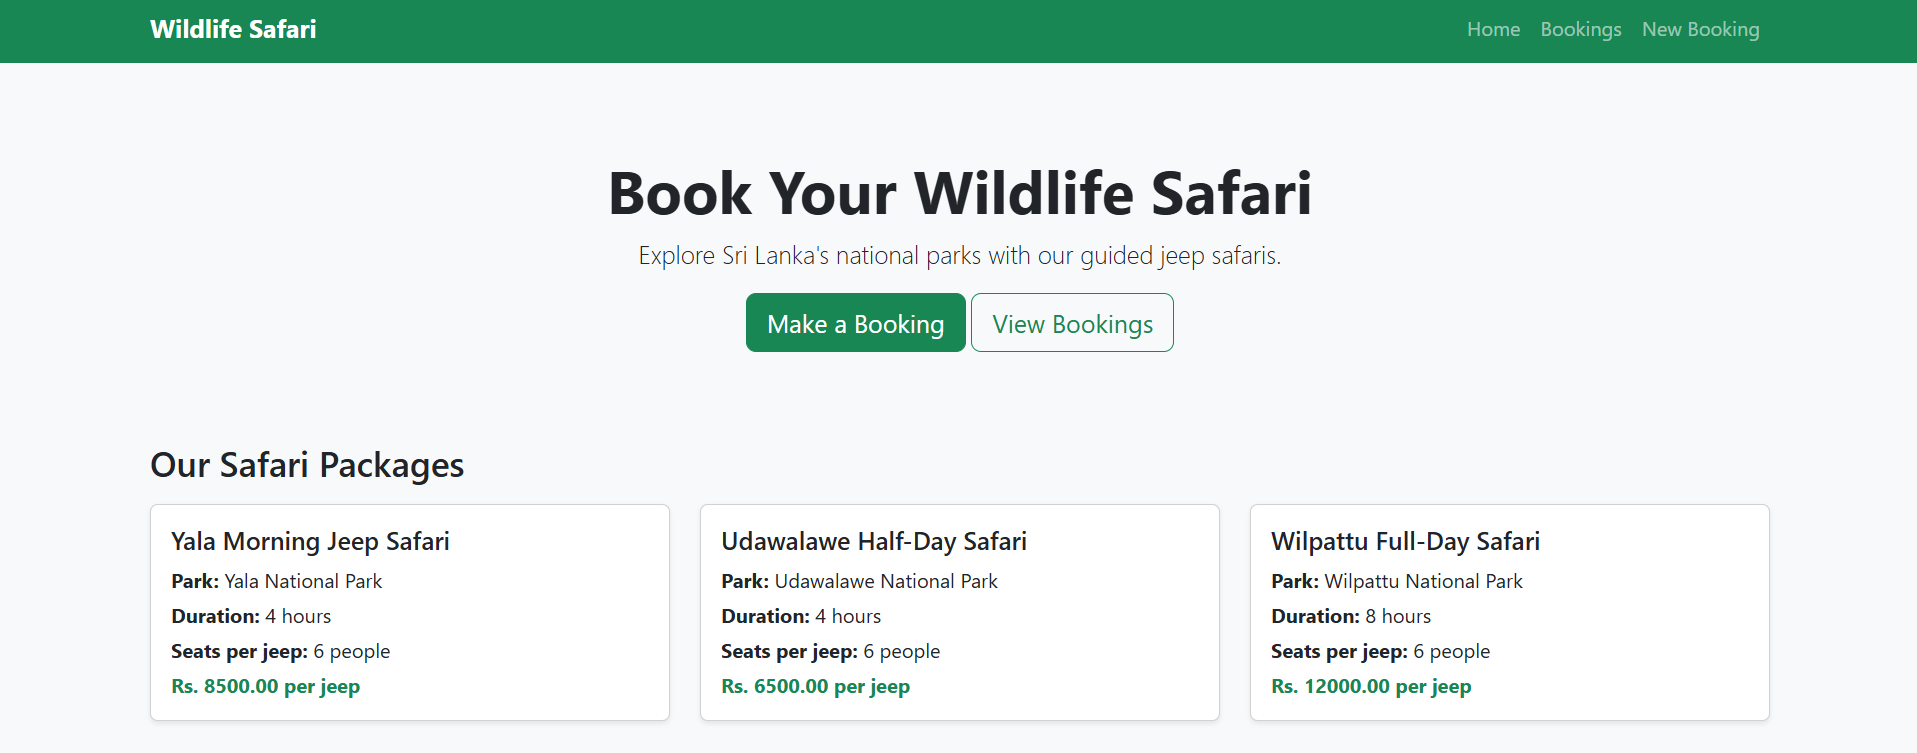
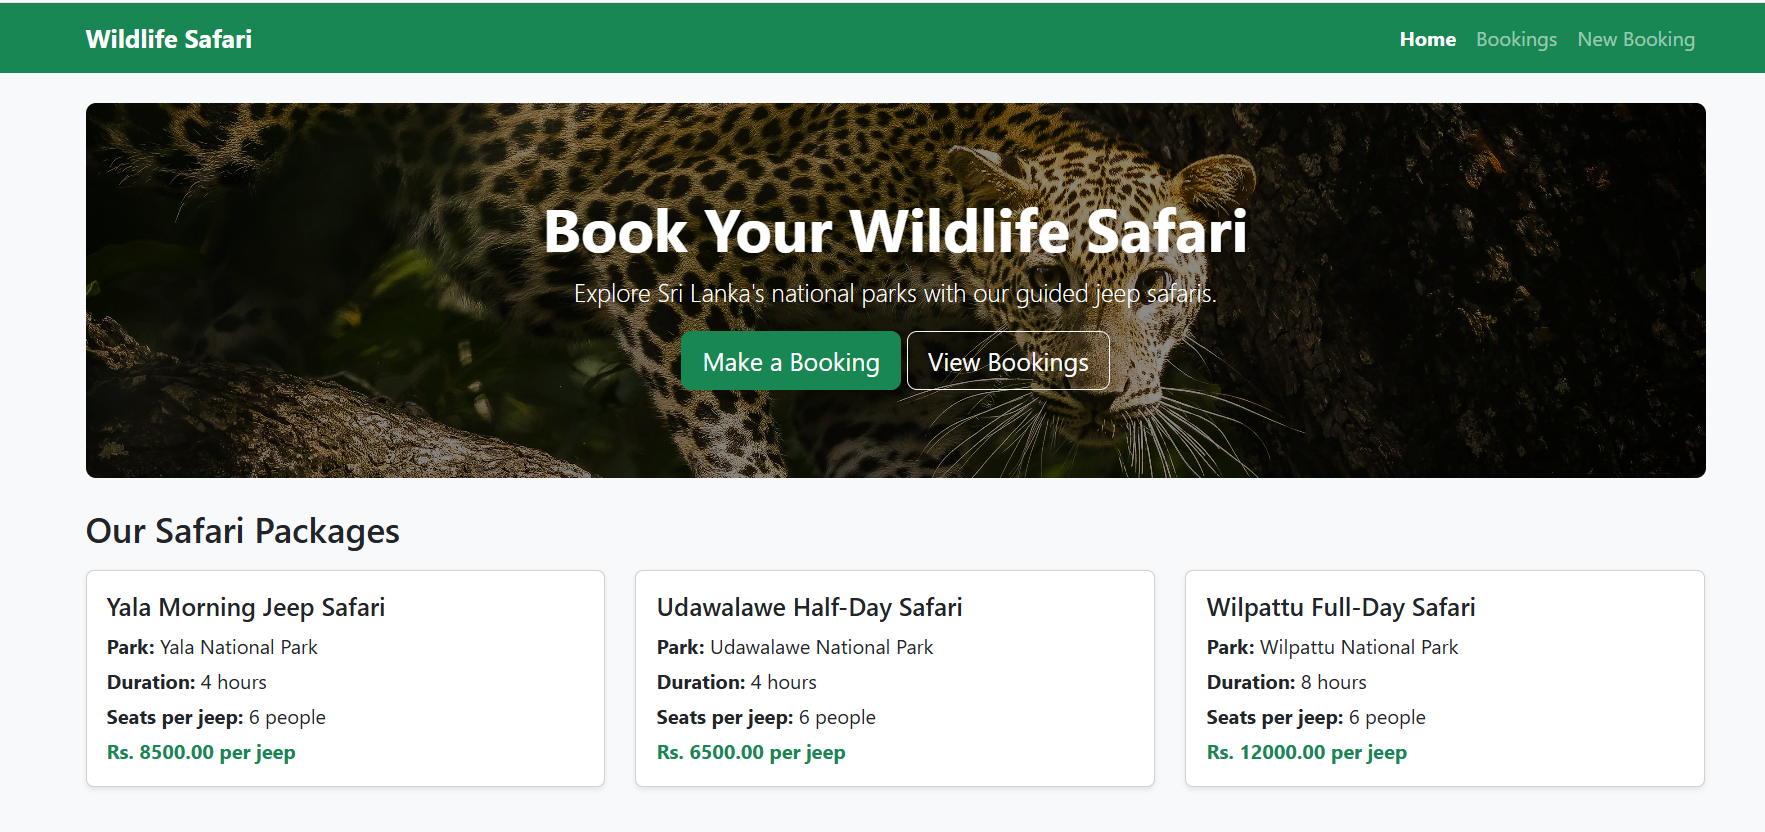
Add full README

diff --git a/README.md b/README.md
@@ -1,102 +1,147 @@
 # Online Wildlife Safari Reservation and Management System
 
 EE4307 Web Application Development Mini Project
-**Student:** [Singaneththi h n] | **Index number:** [EG/2023/5899]
+
+**Student:** [Singaneththi H N] | **Index number:** [EG/2023/5899]
 
 ## Description
 
-A web application for booking wildlife jeep safaris in Sri Lankan national parks. Staff can create, view, edit and delete bookings. Customers are stored in a MySQL database. The price is calculated **per jeep** (one jeep carries up to 6 people), so larger groups book extra jeeps automatically.
+A web application for booking wildlife jeep safaris in Sri Lankan national parks (Yala, Udawalawe and Wilpattu). Staff can create, view, edit and delete bookings, and all data is stored in a MySQL database. Safari prices are calculated **per jeep**, not per person. One jeep carries up to 6 people, so larger groups automatically book extra jeeps.
 
 ## Features
 
-- **Create** a booking with customer, package, guide, date and number of people
-- **Read**: booking list with search by customer name, filter by status, sort by date or price, and a details page
-- **Update**: edit a booking and change its status (Pending, Confirmed, Cancelled)
-- **Delete** with an "Are you sure?" confirmation popup
-- Client-side validation (browser) and server-side validation (Node.js) with clear error messages
-- Automatic price calculation: price per jeep x number of jeeps
-- Responsive design for mobile, tablet and desktop
-- Custom 404 page
+- **Create:** add a booking with customer details, safari package, guide, date and number of people
+- **Read:** booking list with search by customer name, filter by status, sort by date or price, and a details page
+- **Update:** edit a booking and change its status (Pending, Confirmed, Cancelled)
+- **Delete:** remove a booking after an "Are you sure?" confirmation popup
+- **Validation:** client-side (browser) and server-side (Node.js) checks with clear error messages
+- **Automatic pricing:** price per jeep x number of jeeps needed
+- **Responsive design** for mobile, tablet and desktop
+- Custom 404 error page
 
 ## Technologies Used
 
-- Node.js and Express
-- EJS templates
-- MySQL (XAMPP) with the `mysql2` package
-- Bootstrap 5
-- Git and GitHub
+| Part | Technology |
+|---|---|
+| Server | Node.js, Express |
+| Templates | EJS |
+| Database | MySQL (XAMPP), `mysql2` package |
+| Front end | Bootstrap 5, HTML, CSS, JavaScript |
+| Other packages | dotenv, method-override |
+| Version control | Git and GitHub |
 
 ## Setup Steps
 
-1. Install [Node.js](https://nodejs.org) (LTS) and [XAMPP](https://www.apachefriends.org).
-2. Start **Apache** and **MySQL** in the XAMPP Control Panel.
+1. Install [Node.js](https://nodejs.org) (LTS version) and [XAMPP](https://www.apachefriends.org).
+2. Open the XAMPP Control Panel and start **Apache** and **MySQL**.
 3. Clone the repository:
    ```
    git clone https://github.com/hashininethsara18-wq/Online-Wildlife-Safari-Reservation-and-Management-System.git
    cd Online-Wildlife-Safari-Reservation-and-Management-System
    ```
-4. Install packages:
+4. Install the packages:
    ```
    npm install
    ```
-5. Create the database: open `http://localhost/phpmyadmin`, click **Import**, choose `database.sql`, and click **Go**.
-6. Copy `.env.example` to a new file named `.env`. The default values work with XAMPP (user `root`, empty password).
-7. Start the app:
+5. Create the database: open `http://localhost/phpmyadmin`, click the **Import** tab, choose the file `database.sql`, and click **Go**. This creates the database `safari_db` with sample data.
+6. Copy `.env.example` and rename the copy to `.env`. The default values work with XAMPP (user `root`, empty password).
+7. Start the application:
    ```
    node app.js
    ```
 8. Open `http://localhost:3000` in your browser.
 
+If MySQL does not start in XAMPP, another MySQL service may be using port 3306. Stop it in Windows Services and try again.
+
 ## Database Design
 
-The database `safari_db` has 5 tables: `parks`, `safari_packages`, `guides`, `customers` and `bookings`.
+The database `safari_db` has 5 tables:
+
+| Table | Purpose | Key columns |
+|---|---|---|
+| `parks` | National parks | `park_id` (PK) |
+| `safari_packages` | Safari packages of each park | `package_id` (PK), `park_id` (FK), `price_per_jeep`, `max_capacity` |
+| `guides` | Safari guides | `guide_id` (PK) |
+| `customers` | Customer details | `customer_id` (PK), `email` (unique) |
+| `bookings` | Reservations (main entity) | `booking_id` (PK), `customer_id` (FK), `package_id` (FK), `guide_id` (FK) |
+
+Relationships:
 
 - One park has many safari packages.
-- One customer, one package and one guide can each have many bookings.
+- One customer can make many bookings.
+- One package can be used in many bookings.
+- One guide can be assigned to many bookings.
 
 ![ERD](docs/erd.png)
 
 ## Screenshots
 
 ### Home page
-![Home](docs/home.png)
+![Home page](docs/home.png)
 
 ### Create booking
-![Create](docs/create-form.png)
+![Create booking](docs/create-form.png)
 
 ### Booking list with search, filter and sort
-![List](docs/read-list.png)
+![Booking list](docs/read-list.png)
 
 ### Booking details
-![Details](docs/read-details.png)
+![Booking details](docs/read-details.png)
 
 ### Edit booking
-![Edit](docs/edit-form.png)
+![Edit booking](docs/edit-form.png)
 
 ### Delete confirmation
-![Delete](docs/delete-popup.png)
+![Delete confirmation](docs/delete-popup.png)
 
 ### Validation messages
-![Validation](docs/validation-client.png)
+![Validation messages](docs/validation-client.png)
+
+### Database records (phpMyAdmin)
+![Bookings table](docs/db-bookings.png)
+![Customers table](docs/db-customers.png)
 
 ### Mobile view
-![Mobile](docs/mobile-list.png)
+![Mobile home](docs/mobile-home.png)
+![Mobile list](docs/mobile-list.png)
 
 ## Project Structure
 
 ```
 safari-project/
-├── app.js              main server file
-├── config/db.js        database connection
-├── routes/bookings.js  booking routes (CRUD)
-├── views/              EJS pages and partials
-├── public/             CSS and JavaScript
-├── docs/               ERD and screenshots
-├── database.sql        database schema and sample data
-└── .env.example        example settings
+├── app.js                main server file
+├── config/
+│   └── db.js             database connection
+├── routes/
+│   └── bookings.js       booking routes (create, read, update, delete)
+├── views/
+│   ├── index.ejs         home page
+│   ├── error.ejs         404 page
+│   ├── bookings/         new, list, details and edit pages
+│   └── partials/         header, footer and error box
+├── public/
+│   ├── css/style.css     custom styles
+│   ├── js/validation.js  browser validation
+│   └── images/hero.jpg   home page photo
+├── docs/                 ERD and screenshots
+├── database.sql          database schema and sample data
+└── .env.example          example settings
 ```
+
+## Validation Rules
+
+| Field | Rule |
+|---|---|
+| Name | At least 2 characters |
+| Email | Must be a valid email address |
+| Phone | 7 to 15 characters (numbers, +, - and spaces) |
+| Safari date | Cannot be in the past |
+| Number of people | Whole number from 1 to 30 |
+| Package | Must be selected and must exist |
+| Status | Pending, Confirmed or Cancelled only |
 
 ## Notes
 
-- Database credentials are in `.env`, which is not uploaded to GitHub. Use `.env.example` as a guide.
+- Database credentials are stored in `.env`, which is not uploaded to GitHub. Use `.env.example` as a guide.
 - Default XAMPP MySQL login: user `root`, no password.
+- Home page photo from [https://www.pexels.com/photo/sri-lankan-leopard-stealthily-prowling-on-tree-branch-33130315/], photographer: [Rajee Kumar], used under the site's free licence.
